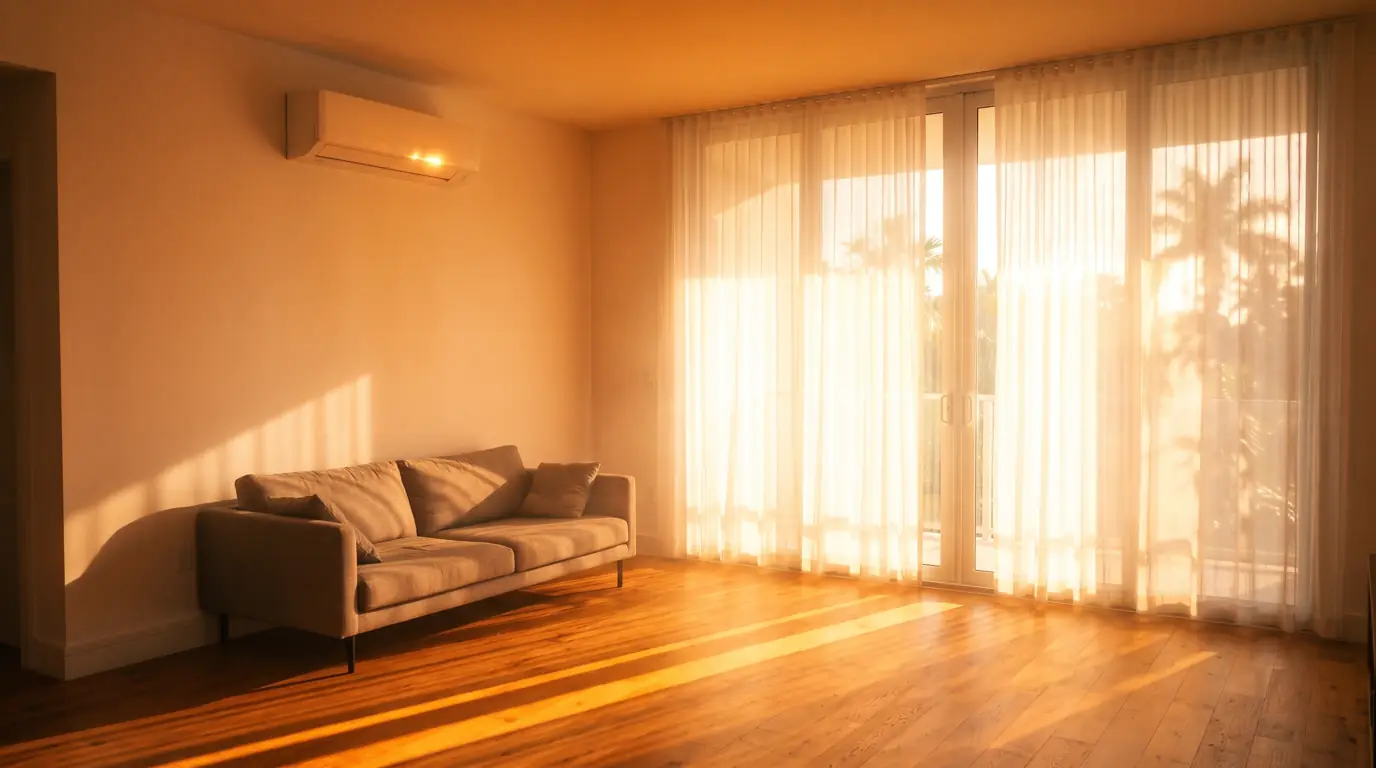
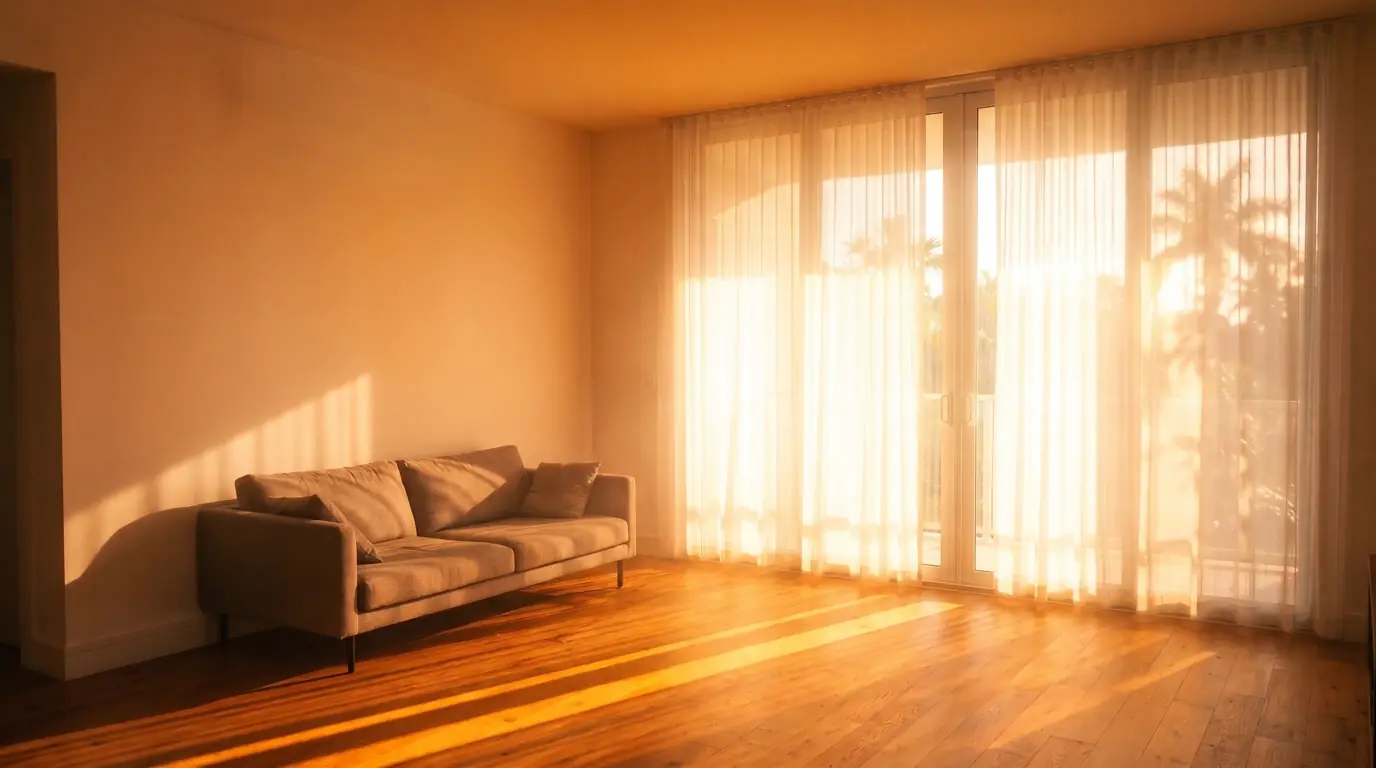
Room slider: hot room has no AC, cool room has the AC running
Claude-Session: https://claude.ai/code/session_01LZQ9dkvvvbwwZbQMJxnFFQ

Changed region(s): [[0.1562, 0.0312, 0.3438, 0.25]]

diff --git a/components/feel-difference.tsx b/components/feel-difference.tsx
@@ -79,7 +79,7 @@ export function FeelDifference() {
           {/* Base layer: hot room */}
           <Img
             src={roomCompare.hot}
-            alt="Warm South Florida room at 91 degrees before cooling"
+            alt="Warm South Florida room at 91 degrees with no air conditioner"
             width={1376}
             height={768}
             loading="lazy"
@@ -93,7 +93,7 @@ export function FeelDifference() {
           >
             <Img
               src={roomCompare.cool}
-              alt="Cool room at 72 degrees after cooling"
+              alt="The same room at 72 degrees with a wall air conditioner running"
               width={1376}
               height={768}
               loading="lazy"

diff --git a/lib/site-data.ts b/lib/site-data.ts
@@ -133,7 +133,7 @@ export const heroStages = [
   { temp: 72, text: "Cool. Finally." },
 ];
 
-// Matched hot/cool pair of the same room (Flow stills S1 and S2, approved 2026-11-02).
+// Matched pair of the same room: hot with no AC (S1b), cool with the AC running (S2c). Gemini edits, aligned 2026-11-02.
 export const roomCompare = {
   hot: "/media/room-hot.webp",
   cool: "/media/room-cool.webp",
